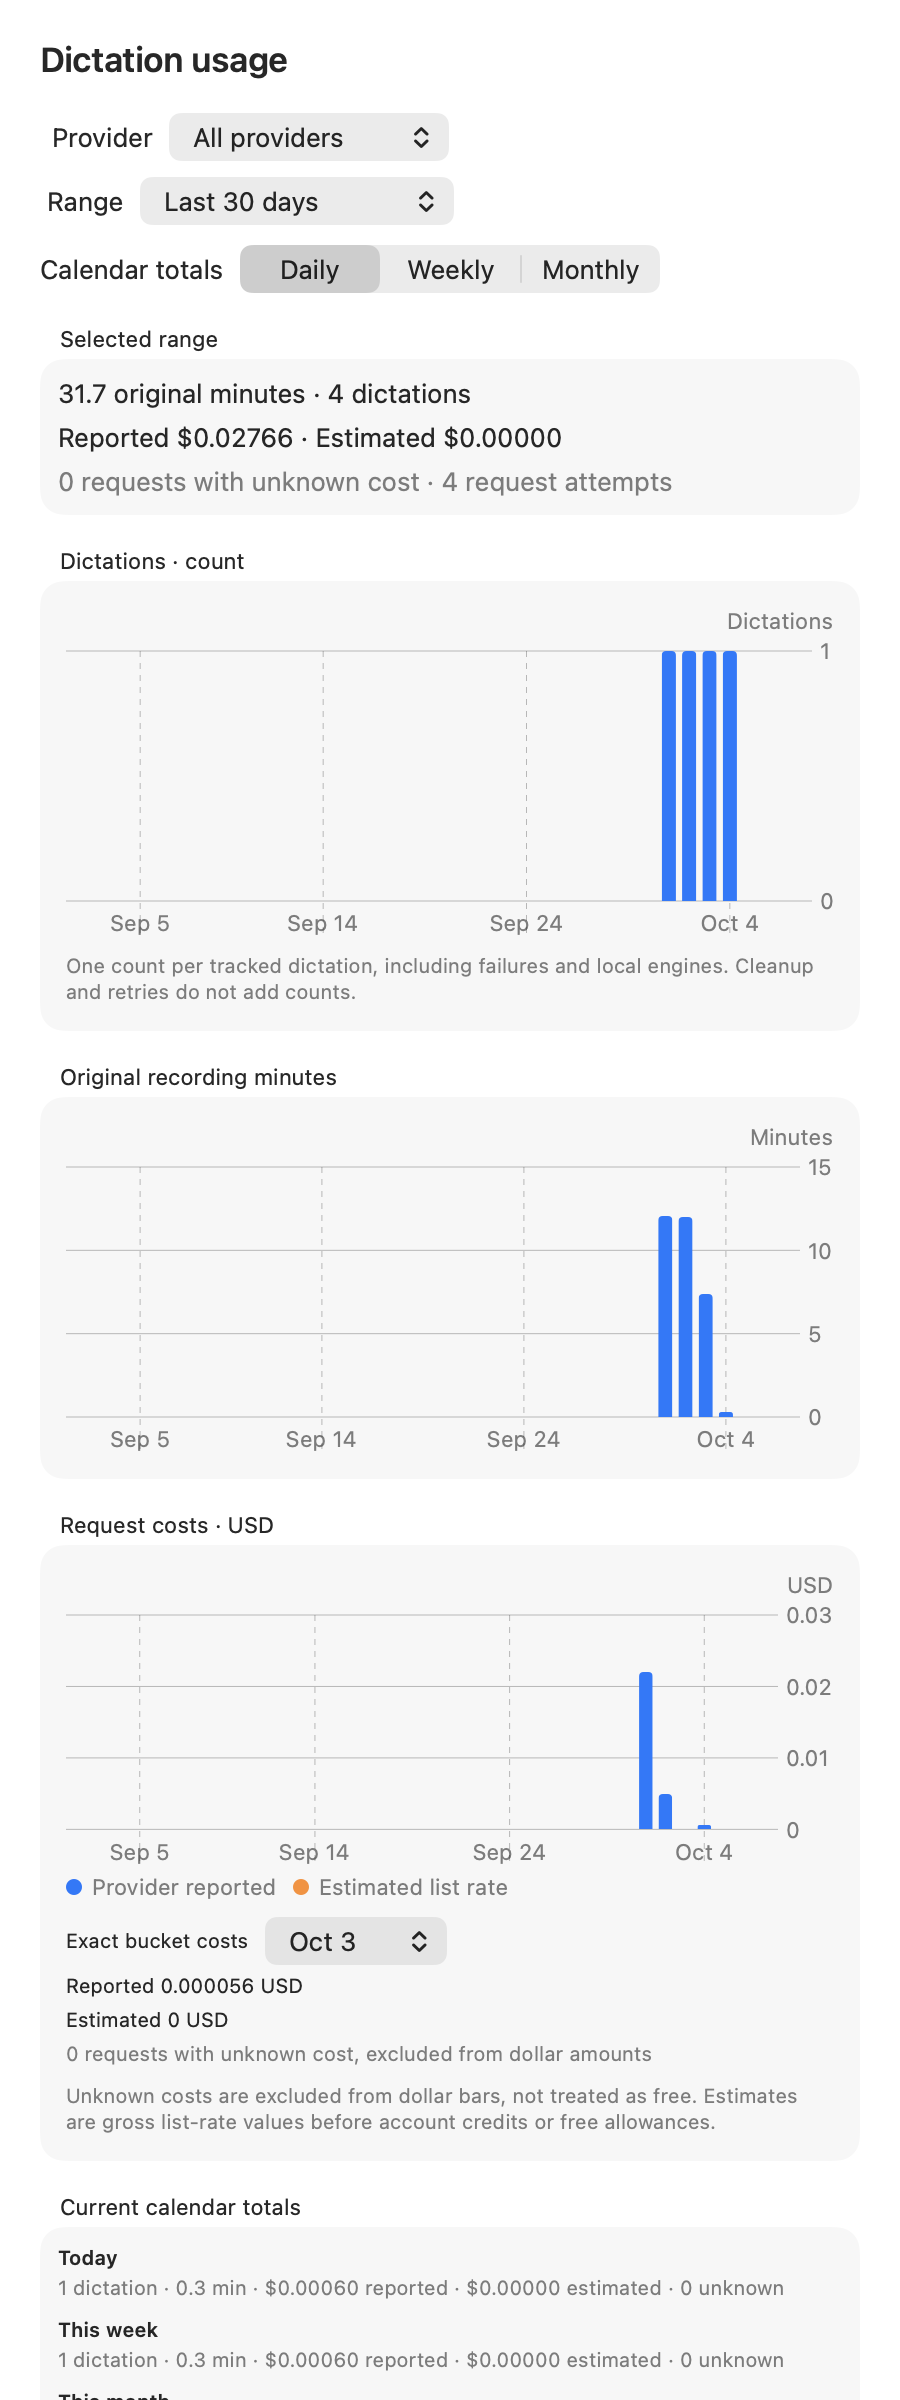
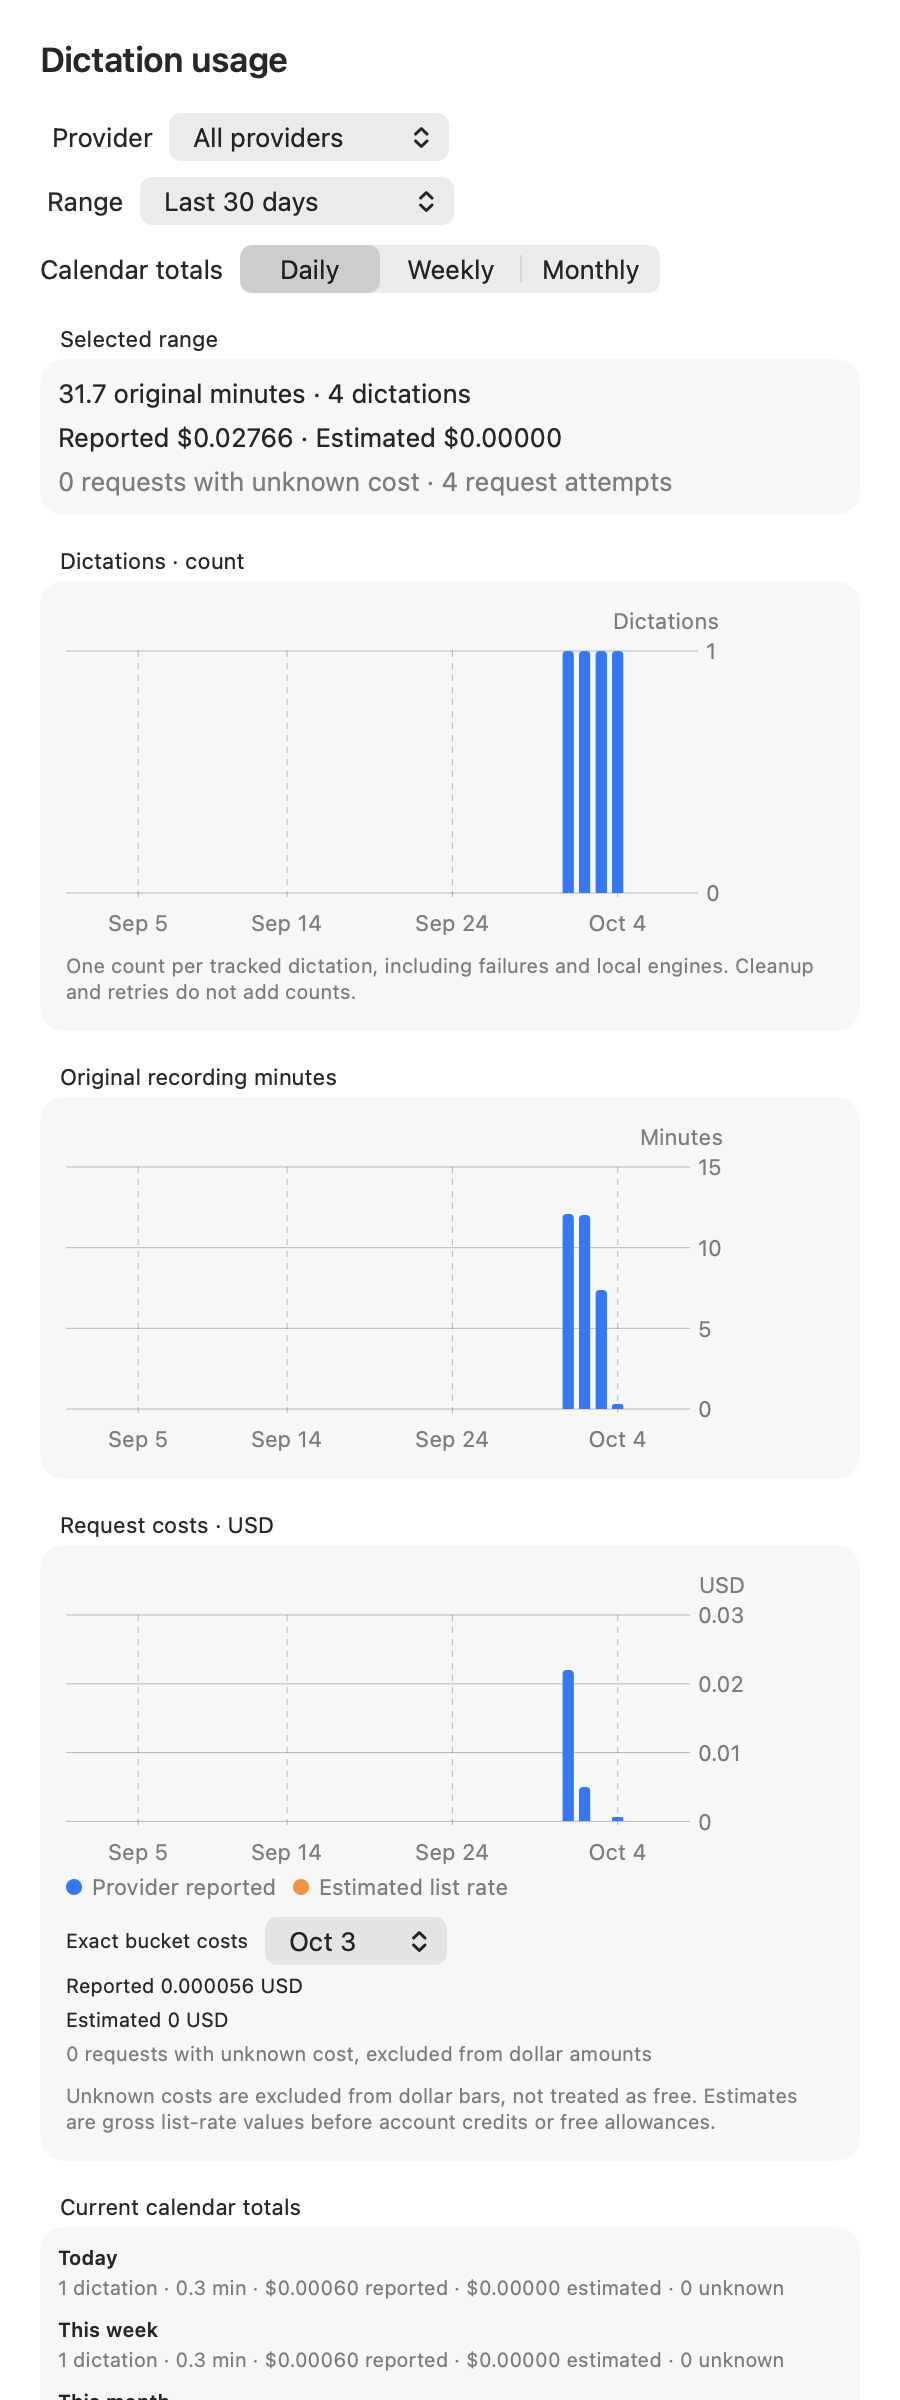
Label every week without tick overlap and align chart plot areas

diff --git a/OpenSuperWhisper/Engines/UsageDashboard.swift b/OpenSuperWhisper/Engines/UsageDashboard.swift
@@ -342,7 +342,9 @@ struct UsageCalendarAxis: ViewModifier {
     }
     static func ticks(_ buckets: [UsageBucket], period: UsagePeriod, calendar: Calendar) -> [Date] {
         guard !buckets.isEmpty else { return [] }
-        // Four labels fit at the dashboard's minimum width, including both end buckets.
+        // Weekly labels identify every calendar bucket, including the weeks with data.
+        // Longer ranges use vertical labels rather than dropping occupied weeks.
+        if period == .weekly { return buckets.map { center($0.start, period: period, calendar: calendar) } }
         let count = min(4, buckets.count)
         let indices = count == 1 ? [0] : (0..<count).map { $0 * (buckets.count - 1) / (count - 1) }
         return indices.map { center(buckets[$0].start, period: period, calendar: calendar) }
@@ -359,19 +361,28 @@ struct UsageCalendarAxis: ViewModifier {
     func body(content: Content) -> some View {
         let first = buckets.first?.start ?? calendar.startOfDay(for: Date())
         let end = calendar.dateInterval(of: period.component, for: buckets.last?.start ?? first)!.end
-        content
+        GeometryReader { geometry in
+            content
+            // Fix the plot width, rather than the axis view's drawn width. Charts still
+            // measures axis labels automatically, but every plot starts at the same edge.
+            .chartPlotStyle { plot in plot.frame(width: max(1, geometry.size.width - 72)) }
+            .frame(maxWidth: .infinity, alignment: .leading)
             .chartXScale(domain: first...end, range: .plotDimension(padding: 32))
             .chartXAxis {
                 AxisMarks(values: Self.ticks(buckets, period: period, calendar: calendar)) { value in
                     AxisGridLine()
-                    AxisTick()
-                    AxisValueLabel(anchor: .top, collisionResolution: .disabled) {
+                    // Automatic ticks extend through the labels on macOS Charts.
+                    AxisTick(length: 4)
+                    AxisValueLabel(anchor: .top, collisionResolution: .disabled,
+                                   orientation: period == .weekly && buckets.count > 6 ? .vertical : .horizontal,
+                                   verticalSpacing: 4) {
                         if let date = value.as(Date.self) {
-                            Text(Self.label(date, period: period, calendar: calendar).replacingOccurrences(of: "Week of ", with: "Week of\n"))
+                            Text(Self.label(date, period: period, calendar: calendar).replacingOccurrences(of: "Week of ", with: ""))
                                 .fixedSize(horizontal: true, vertical: false)
                         }
                     }
                 }
             }
+        }
     }
 }

diff --git a/src/client/UsageDashboard.swift b/src/client/UsageDashboard.swift
@@ -342,7 +342,9 @@ struct UsageCalendarAxis: ViewModifier {
     }
     static func ticks(_ buckets: [UsageBucket], period: UsagePeriod, calendar: Calendar) -> [Date] {
         guard !buckets.isEmpty else { return [] }
-        // Four labels fit at the dashboard's minimum width, including both end buckets.
+        // Weekly labels identify every calendar bucket, including the weeks with data.
+        // Longer ranges use vertical labels rather than dropping occupied weeks.
+        if period == .weekly { return buckets.map { center($0.start, period: period, calendar: calendar) } }
         let count = min(4, buckets.count)
         let indices = count == 1 ? [0] : (0..<count).map { $0 * (buckets.count - 1) / (count - 1) }
         return indices.map { center(buckets[$0].start, period: period, calendar: calendar) }
@@ -359,19 +361,28 @@ struct UsageCalendarAxis: ViewModifier {
     func body(content: Content) -> some View {
         let first = buckets.first?.start ?? calendar.startOfDay(for: Date())
         let end = calendar.dateInterval(of: period.component, for: buckets.last?.start ?? first)!.end
-        content
+        GeometryReader { geometry in
+            content
+            // Fix the plot width, rather than the axis view's drawn width. Charts still
+            // measures axis labels automatically, but every plot starts at the same edge.
+            .chartPlotStyle { plot in plot.frame(width: max(1, geometry.size.width - 72)) }
+            .frame(maxWidth: .infinity, alignment: .leading)
             .chartXScale(domain: first...end, range: .plotDimension(padding: 32))
             .chartXAxis {
                 AxisMarks(values: Self.ticks(buckets, period: period, calendar: calendar)) { value in
                     AxisGridLine()
-                    AxisTick()
-                    AxisValueLabel(anchor: .top, collisionResolution: .disabled) {
+                    // Automatic ticks extend through the labels on macOS Charts.
+                    AxisTick(length: 4)
+                    AxisValueLabel(anchor: .top, collisionResolution: .disabled,
+                                   orientation: period == .weekly && buckets.count > 6 ? .vertical : .horizontal,
+                                   verticalSpacing: 4) {
                         if let date = value.as(Date.self) {
-                            Text(Self.label(date, period: period, calendar: calendar).replacingOccurrences(of: "Week of ", with: "Week of\n"))
+                            Text(Self.label(date, period: period, calendar: calendar).replacingOccurrences(of: "Week of ", with: ""))
                                 .fixedSize(horizontal: true, vertical: false)
                         }
                     }
                 }
             }
+        }
     }
 }

diff --git a/scripts/test_usage_presentation.swift b/scripts/test_usage_presentation.swift
@@ -71,6 +71,12 @@ import AppKit
                     }
                 }
             }
+            let weeklyRange = UsageAggregation.buckets(UsageArchive(), start: date(5, month: 9), end: date(5), period: .weekly, calendar: calendar())
+            let weeklyTicks = UsageCalendarAxis.ticks(weeklyRange, period: .weekly, calendar: calendar())
+            assert(weeklyTicks.count == weeklyRange.count)
+            for bucket in weeklyRange {
+                assert(weeklyTicks.contains(UsageCalendarAxis.center(bucket.start, period: .weekly, calendar: calendar())))
+            }
             assert(UsageCostPresentation.exact(0.000056) == "0.000056")
             for value in [Double.leastNonzeroMagnitude, 1e-100, 1e-20, 0.00005555555555555556, 0.02741666666666666, 1e20] {
                 assert(Double(UsageCostPresentation.exact(value)) == value)
@@ -102,14 +108,15 @@ import AppKit
         let period = UsagePeriod.allCases.first { $0.rawValue.lowercased() == CommandLine.arguments[3] }!
         let width = Double(CommandLine.arguments[4])!
         let provider = CommandLine.arguments.count > 5 ? CommandLine.arguments[5] : "all"
-        let name = "\(fixture)-\(period.rawValue.lowercased())-\(Int(width))-\(provider)"
+        let range = CommandLine.arguments.count > 6 ? CommandLine.arguments[6] : "30"
+        let name = "\(fixture)-\(period.rawValue.lowercased())-\(Int(width))-\(provider)" + (range == "30" ? "" : "-\(range)")
         let store = UsageMetricsStore(url: root.appendingPathComponent("\(name)/usage.json"))
         seed(store, fixture: fixture)
         let application = NSApplication.shared
         application.setActivationPolicy(.accessory)
         let window = NSWindow(contentRect: NSRect(x: 80, y: 80, width: width, height: 1200), styleMask: [.titled], backing: .buffered, defer: false)
         window.title = "Synthetic dashboard probe"
-        let host = NSHostingView(rootView: UsageDashboard(store: store, initialProvider: provider, initialPeriod: period, initialRange: "30", initialCostBucket: calendar().startOfDay(for: date(3)), referenceDate: date(4)))
+        let host = NSHostingView(rootView: UsageDashboard(store: store, initialProvider: provider, initialPeriod: period, initialRange: range, initialCostBucket: calendar().startOfDay(for: date(3)), referenceDate: date(4)))
         window.contentView = host
         window.makeKeyAndOrderFront(nil)
         DispatchQueue.main.asyncAfter(deadline: .now() + 2) {

diff --git a/docs/usage-presentation/README.md b/docs/usage-presentation/README.md
@@ -2,11 +2,11 @@
 
 The cost chart uses one centered series when only reported or estimated charges are positive in the displayed range. When both categories contain positive charges, it keeps separate side-by-side series. Bar values are unchanged. The adaptive USD axis is unchanged.
 
-All three charts use calendar-bucket midpoint ticks, at most four labels, with daily dates, weekly start dates and month/year labels. The scale includes complete boundary buckets and 32-point plot padding. Weekly labels use two lines. A bucket picker below the cost chart displays round-trip decimal dollar values and an explicit unknown-cost count, independent of bar height. This makes subpixel charges readable without enlarging their bars.
+All three charts use calendar-bucket midpoint ticks with daily dates, weekly start dates and month/year labels. Daily and Monthly sample at most four labels; Weekly labels every bucket, including every occupied week. Weekly labels use the short date, rotating vertically for more than six weeks instead of skipping dates. The scale includes complete boundary buckets and 32-point plot padding. Fixed four-point ticks stop above the text. All three charts reserve the same plot width, independent of their y-axis label widths. A bucket picker below the cost chart displays round-trip decimal dollar values and an explicit unknown-cost count, independent of bar height. This makes subpixel charges readable without enlarging their bars.
 
 ## Offline regression checks
 
-Run `npm test` and `scripts/test_shortcuts.sh`. `test_usage_presentation.swift` compiles with the production store, aggregation and SwiftUI chart code, with assertions enabled. It tests reported-only, estimate-only, mixed, zero, unknown and empty fixtures across Daily/Weekly/Monthly and all/OpenRouter/Cloudflare/no-matching-provider filters. It checks exact values, separate series in disjoint buckets, endpoint ticks, Sunday/Monday week boundaries and 23/25-hour DST days. Existing tests cover request accounting, cleanup/retries, privacy, count/minutes and repeatable root generation.
+Run `npm test` and `scripts/test_shortcuts.sh`. `test_usage_presentation.swift` compiles with the production store, aggregation and SwiftUI chart code, with assertions enabled. It tests reported-only, estimate-only, mixed, zero, unknown and empty fixtures across Daily/Weekly/Monthly and all/OpenRouter/Cloudflare/no-matching-provider filters. It checks exact values, separate series in disjoint buckets, endpoint ticks, complete weekly tick coverage, Sunday/Monday week boundaries and 23/25-hour DST days. Native screenshot review checks that count, minutes and cost bar edges align. Existing tests cover request accounting, cleanup/retries, privacy, count/minutes and repeatable root generation.
 
 To render isolated native windows with synthetic metadata:
 
@@ -21,14 +21,15 @@ runs/presentation/probe runs/presentation/images reported monthly 800
 runs/presentation/probe runs/presentation/images mixed monthly 450
 ```
 
-Arguments are output directory, fixture, period, width and optional provider. Use a fresh output directory for new fixtures. The render clock is fixed at October 4, 2026. Synthetic daily charges are $0.022, $0.005, $0.000056 and $0.0006. Each request belongs to one of four synthetic dictations, not a copied user ledger. Mixed fixtures add separate estimated cleanup charges. Only the named isolated profile is written. These probes do not access recordings, credentials, installed app state or provider APIs.
+Arguments are output directory, fixture, period, width, optional provider and optional range. For example, `reported weekly 450 all 90` checks longer weekly labels. Use a fresh output directory for new fixtures. The render clock is fixed at October 4, 2026. Synthetic daily charges are $0.022, $0.005, $0.000056 and $0.0006. Each request belongs to one of four synthetic dictations, not a copied user ledger. Mixed fixtures add separate estimated cleanup charges. Only the named isolated profile is written. These probes do not access recordings, credentials, installed app state or provider APIs.
 
 ## Native screenshot review
 
-Reviewed count, minutes and cost charts at 800 and 450 points for all three periods. Date labels fit at both edges. Monthly reported-only and estimate-only bars occupy their full centered bucket; mixed positive bars remain separate blue/orange columns. The narrow daily picker shows `0.000056 USD` beside the much larger $0.022 charge without changing either bar's height. Zero, unknown, empty and provider-filtered probes were also inspected. An initial weekly label overlap was corrected before retaining the final screenshots.
+Reviewed count, minutes and cost charts at 800 and 450 points for all three periods. Date labels fit at both edges. Monthly reported-only and estimate-only bars occupy their full centered bucket; mixed positive bars remain separate blue/orange columns. The narrow daily picker shows `0.000056 USD` beside the much larger $0.022 charge without changing either bar's height. Zero, unknown, empty and provider-filtered probes were also inspected. The revised weekly view includes Sep 13 and Sep 27 and stops tick lines before the text. A 90-day narrow weekly probe confirms vertical labels remain legible. Native screenshots show identical count/minutes/cost bar edges at both widths. Firstmate accepted the uncrossed complete weekly labels and aligned monthly bars. A color-dependent raster assertion was removed as instructed; alignment verification is visual, not an automated raster assertion.
 
 - [Monthly, 800 points](monthly.png)
 - [Daily tiny charge, 450 points](daily-narrow.png)
 - [Mixed categories, 450 points](mixed-narrow.png)
+- [All weekly buckets, 450 points](weekly-narrow.png)
 
 These are isolated production-view probes, not verification of the installed application. The existing installed-dashboard diagnosis remains the evidence for the original symptom. The installed dashboard was closed when this task resumed; no restart, recording action, installation or real-ledger write was performed.
